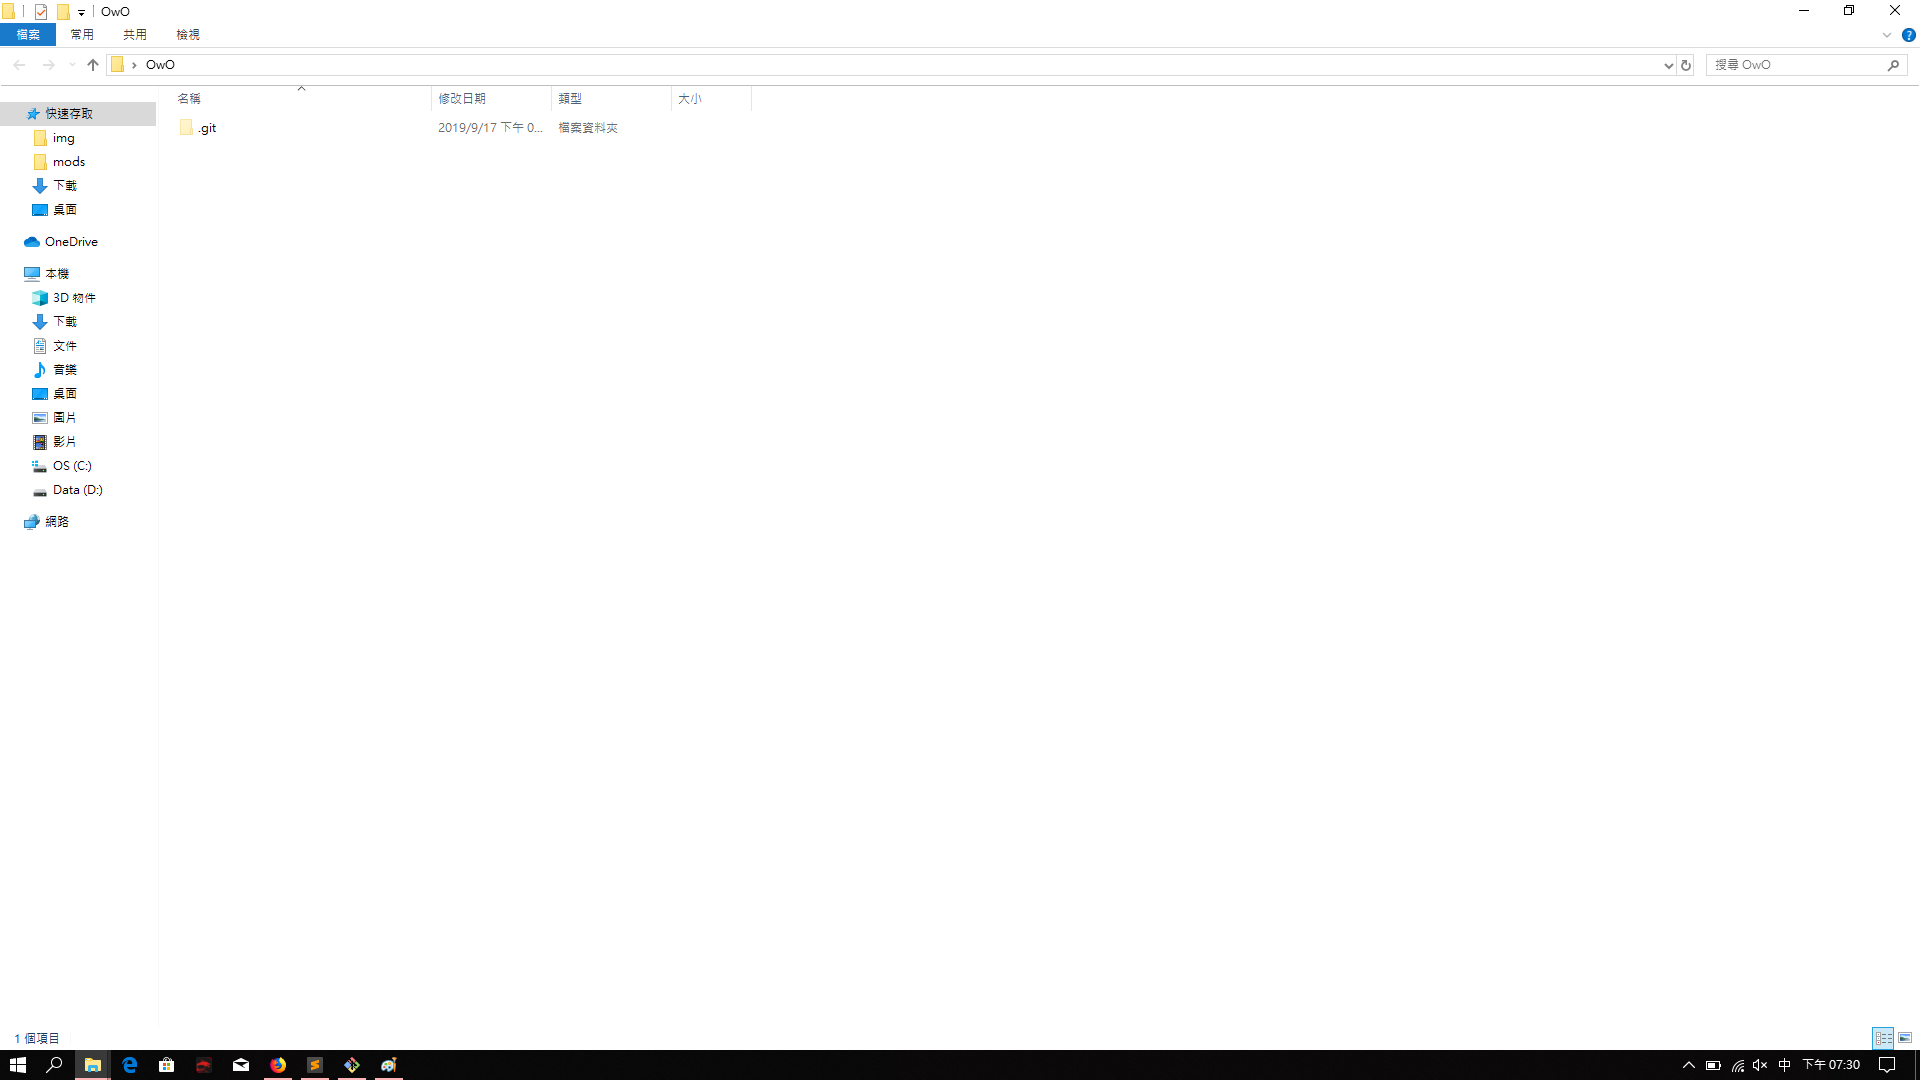
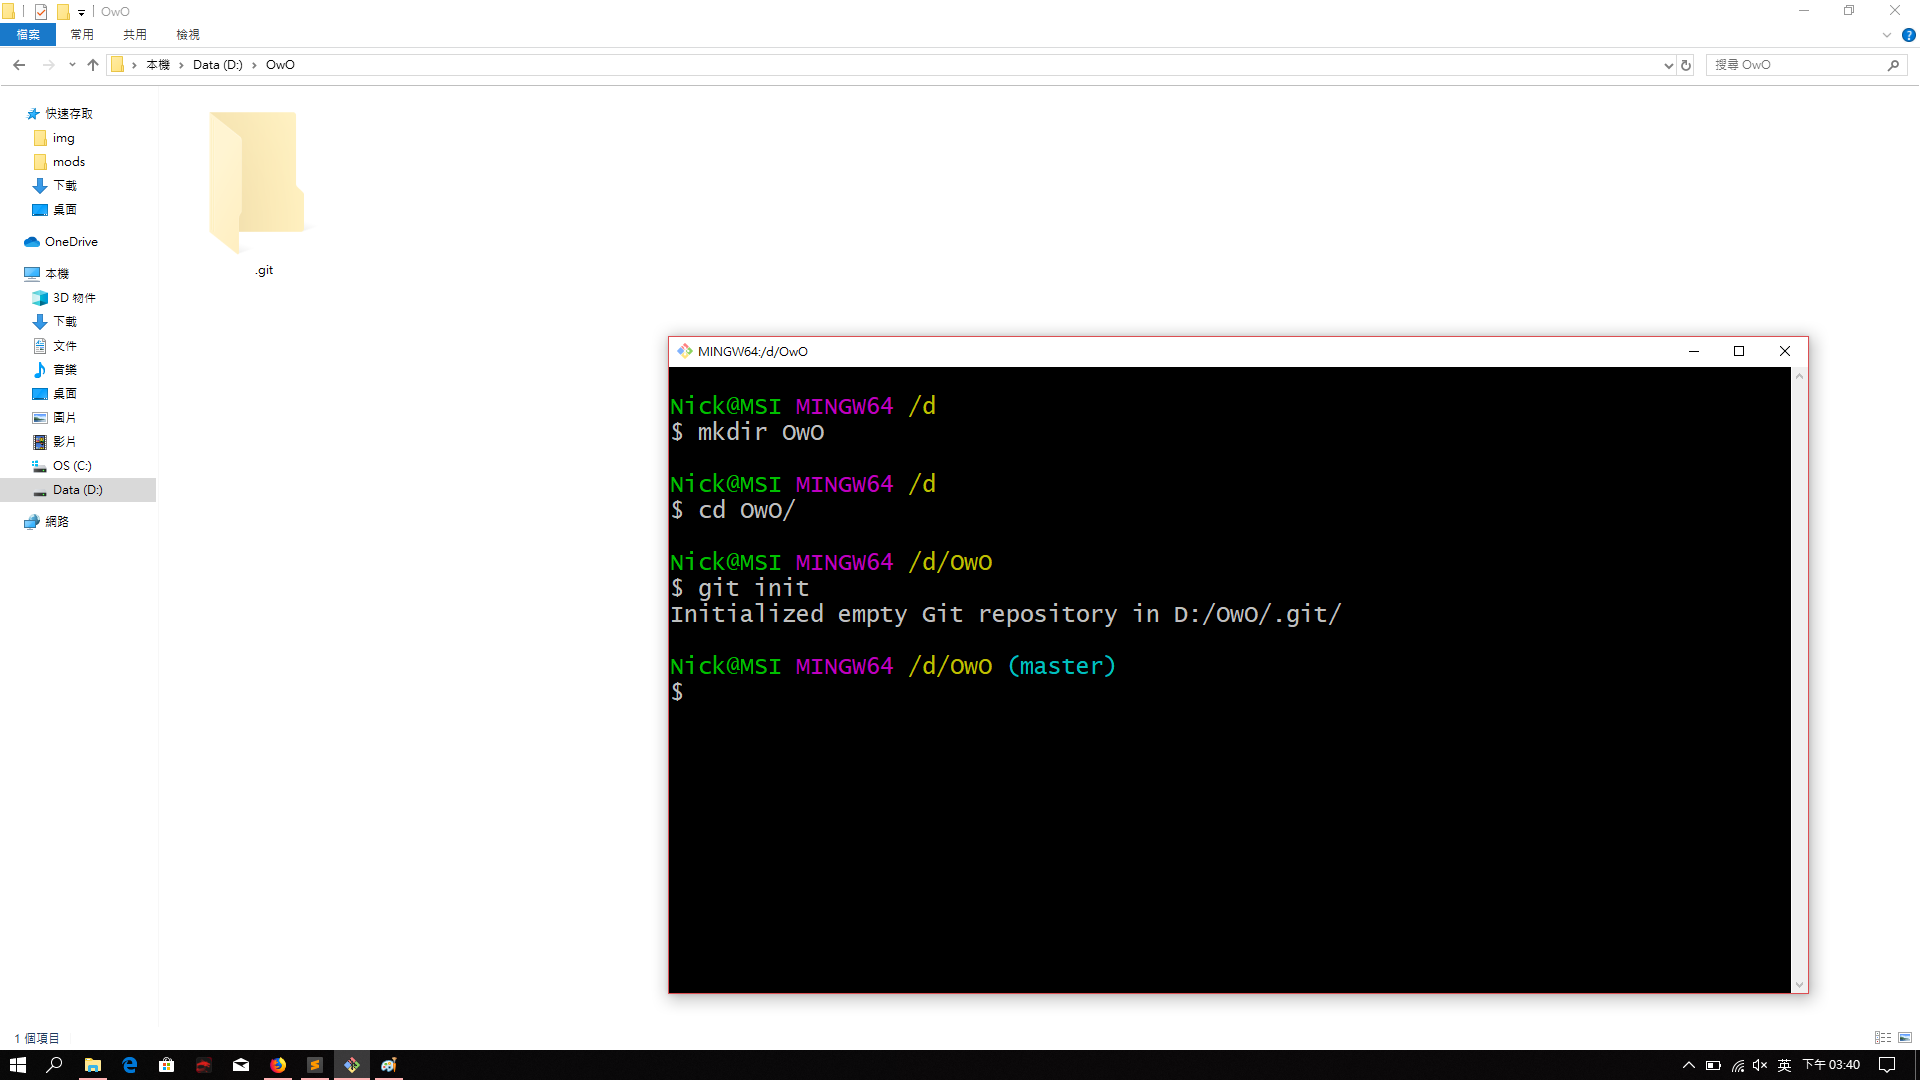
20190918

diff --git a/slides/20190918-Git/index.html b/slides/20190918-Git/index.html
@@ -212,7 +212,7 @@ git config --global alias.lg "log --color --graph --all --pretty=format:'%Cred%h
 				<section>
 					<section>
 						<h3>讓我們先隨便新增一個檔案</h3>
-						<pre><code class="concolas">touch hello.txt</code></pre>
+						<pre><code class="concolas">touch README.md</code></pre>
 					</section>
 					<section>
 						<h3>查看目前版本變動/過去版本演進</h3>
@@ -221,7 +221,74 @@ git log // -> git lg</code></pre>
 					</section>
 					<section>
 						<h4>天啊...怎麼爆炸了...我做錯了甚麼</h4>
-						<img src="img/git_st_1.png">
+						<img src="img/log_err.png">
+					</section>
+				</section>
+
+				<!-- Principle -->
+				<section>
+					<h5>git的邏輯</h5>
+					<img style="height: 55vh; border: 0px" src="https://upload.wikimedia.org/wikipedia/commons/thumb/d/d8/Git_operations.svg/734px-Git_operations.svg.png">
+				</section>
+
+				<!-- add / commit -->
+				<section>
+					<section>
+						<h5>想要git幫你追蹤版本變動</h5>
+						<h4>就要先告訴git要追蹤那些檔案阿!!!</h4>
+						<pre><code class="consolas">git add README.md</code></pre>
+					</section>
+					<section>
+						<h5>提交版本紀錄</h5>
+						<pre><code class="consolas">git commit -m "init" README.md</code></pre>
+					</section>
+					<section>
+						<h4>再來查看一次</h4>
+						<img src="img/log.png">
+					</section>
+					<section>
+						<h3>練習時間</h3>
+						<h4>自己新增or修改些檔案, 試著自己提交版本</h4>
+						<pre><code class="consolas">git add FILENAME
+git commit -m "MGS" FILENAME</code></pre>
+					</section>
+				</section>
+
+				<!-- diff -->
+				<section>
+					<section>
+						<h2>比較版本變化</h2>
+						<pre><code class="consolas">git diff HEAD^</code></pre>
+					</section>
+					<section>
+						<h4>git diff ...</h4>
+						<img src="img/diff_with_hook.png">
+					</section>
+					<section>
+						<h4>git diff ...</h4>
+						<img src="img/diff_with_key.png">
+					</section>
+				</section>
+
+				<!-- checkout / reset / ect-->
+				<section>
+					<section>
+						<h2>查看特定版本</h2>
+						<pre><code class="consolas">git checkout key</code></pre>
+					</section>
+					<section>
+						<h2>回復特定版本</h2>
+						<pre><code class="consolas">git revert key file
+git reset key file</code></pre>
+					</section>
+					<section>
+						<h5>雜項</h5>
+						<pre><code class="consolas">git rm file // 取消追蹤
+git mv oldfile newfile // 更換檔案名稱/位置</code></pre>
+					</section>
+					<section>
+						<h4>預告</h4>
+						<h3 class="fragment zoom-in">下周教分支(branck)跟玩GitHub</h3>
 					</section>
 				</section>
 			</div>
